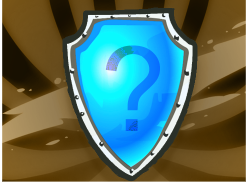
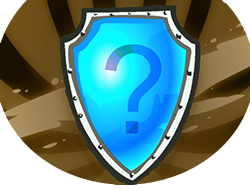
Extra Cripsy up to 2 Burn.  Uncommon/Common rarity flips on Hexa.  Fixed MudShield using the wrong image template

diff --git a/src/main/java/theHexaghost/cards/Haunt.java b/src/main/java/theHexaghost/cards/Haunt.java
@@ -19,7 +19,7 @@ public class Haunt extends AbstractHexaCard {
     public static final String EXTENDED_DESCRIPTION[] = CardCrawlGame.languagePack.getCardStrings(ID).EXTENDED_DESCRIPTION;
 
     public Haunt() {
-        super(ID, 0, CardType.SKILL, CardRarity.COMMON, CardTarget.SELF);
+        super(ID, 0, CardType.SKILL, CardRarity.UNCOMMON, CardTarget.SELF);
         baseMagicNumber = magicNumber = MAGIC;
         isEthereal = true;
         exhaust = true;

diff --git a/src/main/java/theHexaghost/cards/FlamesFromBeyond.java b/src/main/java/theHexaghost/cards/FlamesFromBeyond.java
@@ -14,7 +14,7 @@ public class FlamesFromBeyond extends AbstractHexaCard {
     private static final int UPG_MAGIC = 3;
 
     public FlamesFromBeyond() {
-        super(ID, -2, CardType.SKILL, CardRarity.COMMON, CardTarget.ENEMY);
+        super(ID, -2, CardType.SKILL, CardRarity.UNCOMMON, CardTarget.ENEMY);
         baseMagicNumber = magicNumber = MAGIC;
         isEthereal = true;
     }

diff --git a/src/main/java/theHexaghost/cards/ThermalTransfer.java b/src/main/java/theHexaghost/cards/ThermalTransfer.java
@@ -21,7 +21,7 @@ public class ThermalTransfer extends AbstractHexaCard {
     private static final int UPG_BLOCK = 3;
 
     public ThermalTransfer() {
-        super(ID, 1, CardType.ATTACK, CardRarity.UNCOMMON, CardTarget.ENEMY);
+        super(ID, 1, CardType.ATTACK, CardRarity.COMMON, CardTarget.ENEMY);
         baseDamage = DAMAGE;
         baseBlock = BLOCK;
     }

diff --git a/src/main/java/theHexaghost/cards/GhostLash.java b/src/main/java/theHexaghost/cards/GhostLash.java
@@ -17,7 +17,7 @@ public class GhostLash extends AbstractHexaCard {
     private static final int UPG_DAMAGE = 2;
 
     public GhostLash() {
-        super(ID, 1, CardType.ATTACK, CardRarity.UNCOMMON, CardTarget.ENEMY);
+        super(ID, 1, CardType.ATTACK, CardRarity.COMMON, CardTarget.ENEMY);
         baseDamage = DAMAGE;
         isEthereal = true;
     }

diff --git a/src/main/java/theHexaghost/cards/GhostShield.java b/src/main/java/theHexaghost/cards/GhostShield.java
@@ -17,7 +17,7 @@ public class GhostShield extends AbstractHexaCard {
     private static final int UPG_BLOCK = 2;
 
     public GhostShield() {
-        super(ID, 1, CardType.SKILL, CardRarity.UNCOMMON, CardTarget.SELF);
+        super(ID, 1, CardType.SKILL, CardRarity.COMMON, CardTarget.SELF);
         baseBlock = BLOCK;
         isEthereal = true;
     }

diff --git a/src/main/java/theHexaghost/cards/ExtraCrispy.java b/src/main/java/theHexaghost/cards/ExtraCrispy.java
@@ -10,7 +10,7 @@ public class ExtraCrispy extends AbstractHexaCard {
 
     //stupid intellij stuff POWER, SELF, UNCOMMON
 
-    private static final int MAGIC = 1;
+    private static final int MAGIC = 2;
     // private static final int UPG_MAGIC = 1;
 
     public ExtraCrispy() {
